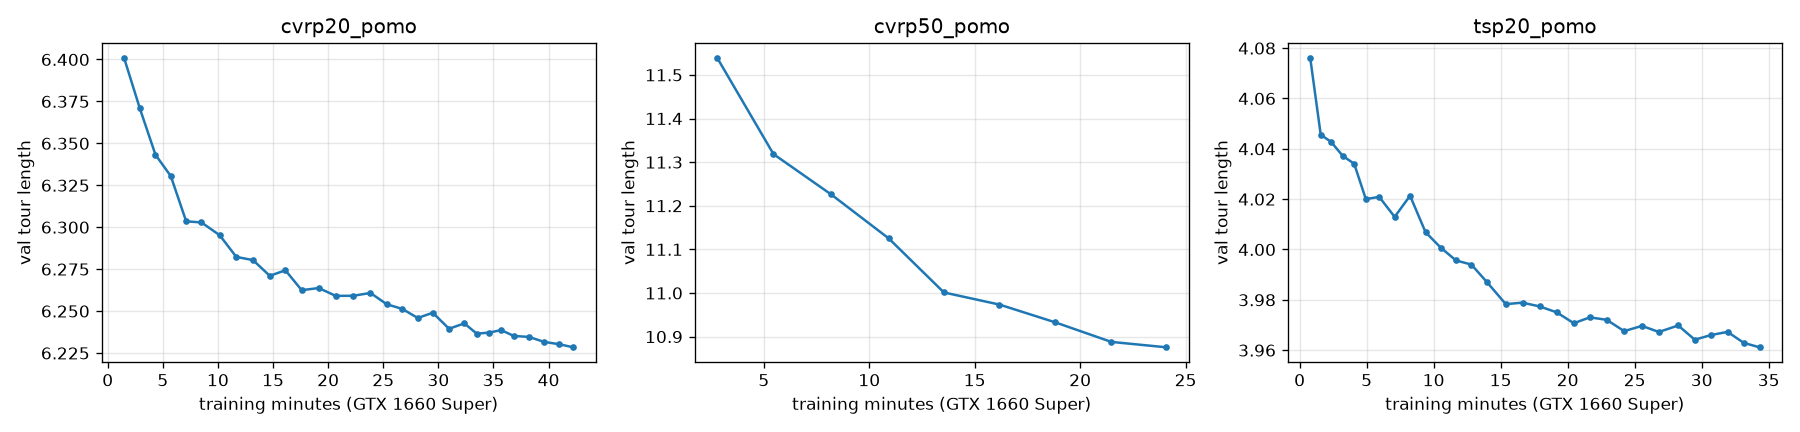
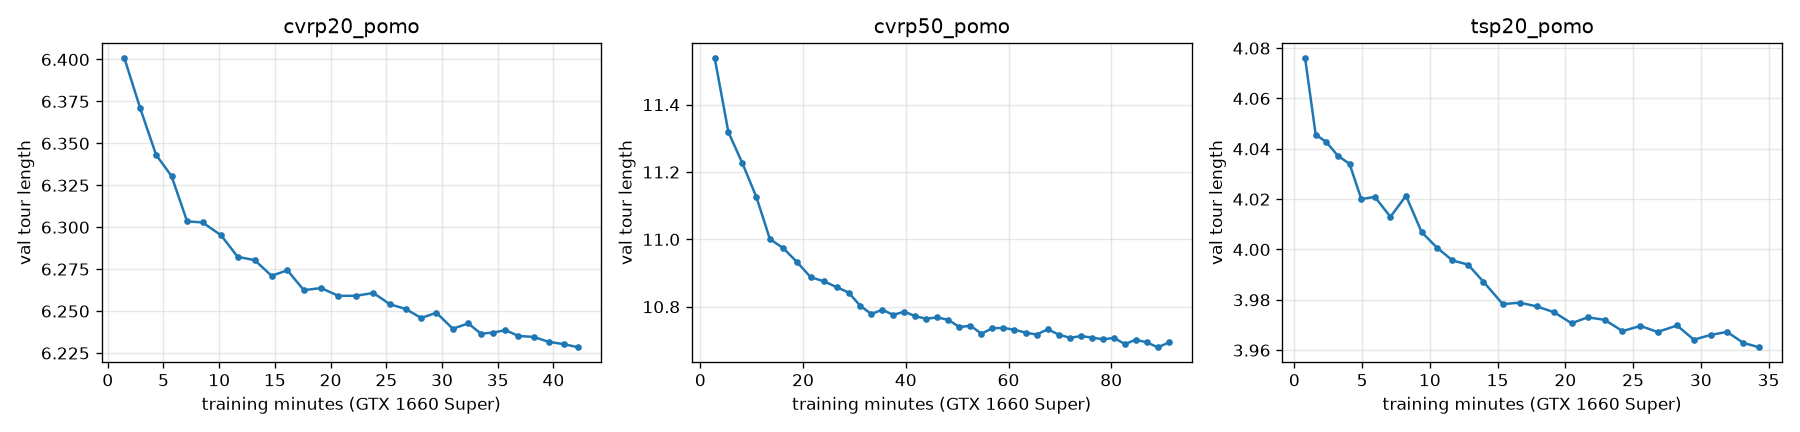
Add CVRP-50 results: attention within 2.0% of PyVRP at 190 ms
- Beats OR-Tools given 10 s (3.2%) while running ~50x faster
- Phase 2 (weeks 3-4) complete; training curves updated

diff --git a/README.md b/README.md
@@ -19,7 +19,7 @@ benchmarked against OR-Tools, PyVRP and **real delivery drivers** on ~9,000 Amaz
 |---|---|---|
 | 0 | Repo, tooling, CI, data model, ETL, EDA | ✅ |
 | 1 | Baselines (NN, Clarke-Wright, OR-Tools, PyVRP) + evaluator + benchmark | ✅ |
-| 2 | Attention Model + POMO (REINFORCE) on TSP/CVRP, neural solver, synthetic benchmark | ✅ code · ⏳ CVRP-50 training |
+| 2 | Attention Model + POMO (REINFORCE) on TSP/CVRP, neural solver, synthetic benchmark | ✅ |
 | 3 | Time windows + calibrated generator + curriculum | |
 | 4 | Real asymmetric travel times (MatNet-style), fine-tuning, ONNX | |
 | 5–7 | FastAPI + OSRM backend, Next.js/deck.gl frontend, deployment | |
@@ -73,8 +73,20 @@ After ~35 minutes of training per problem on a GTX 1660 Super, the policy is wit
 PyVRP at 12–60× lower latency and beats OR-Tools on CVRP-20. Single greedy decoding is weak because
 POMO training always forces the first customer; multi-start decoding is the intended mode.
 
-**Size generalisation.** The CVRP-20 model on CVRP-50 instances drops to a 4.2 % gap (savings:
-5.1 %), which is why the plan trains at the target size and adds a size curriculum in phase 3.
+**CVRP-50** (200 instances; model trained 90 min at this size):
+
+| Solver | Gap | Runtime |
+|---|---|---|
+| PyVRP (10 s) | 0.02 % | 10 s |
+| **Attention + POMO (×8 aug.)** | **2.0 %** | **190 ms** |
+| OR-Tools (10 s) | 3.2 % (2 failures) | 10 s |
+| Clarke-Wright savings | 5.1 % | <10 ms |
+| OR-Tools (1 s) | 6.5 % (3 failures) | 1 s |
+| Attention, CVRP-20 model (size transfer) | 4.2 % | 210 ms |
+
+The network beats OR-Tools given 50× more time. **Size generalisation** is the weak spot: the
+CVRP-20 model drops to 4.2 % on CVRP-50, which is why the plan trains at the target size and adds
+a size curriculum in phase 3 (real routes have ~150 stops).
 
 ![training curves](docs/figures/training_curves.png)
 

diff --git a/results/synthetic_cvrp50.md b/results/synthetic_cvrp50.md
@@ -1,0 +1,13 @@
+# Synthetic benchmark · CVRP-50 · 200 instances
+
+Uniform instances, seeds not seen in training. Gap vs best solution found per instance.
+
+| config           |   instances |   travel_time_h |   gap_% |   gap_%_p90 |   vehicles |   runtime_s_p50 |   failures |
+|:-----------------|------------:|----------------:|--------:|------------:|-----------:|----------------:|-----------:|
+| pyvrp:10         |         200 |            2.86 |    0.02 |        0    |       6.73 |           10.01 |          0 |
+| attention        |         200 |            2.91 |    2    |        3.26 |       6.88 |            0.19 |          0 |
+| ortools:10       |         200 |            2.95 |    3.23 |        6.1  |       6.74 |           10    |          2 |
+| savings          |         200 |            3    |    5.1  |        8.31 |       6.94 |            0    |          0 |
+| ortools:1        |         200 |            3.05 |    6.49 |       10.95 |       6.74 |            1    |          3 |
+| attention_greedy |         200 |            3.07 |    7.47 |       11.42 |       7.1  |            0.11 |          0 |
+| nearest_neighbor |         200 |            3.84 |   34.66 |       46.67 |       6.78 |            0    |          0 |
